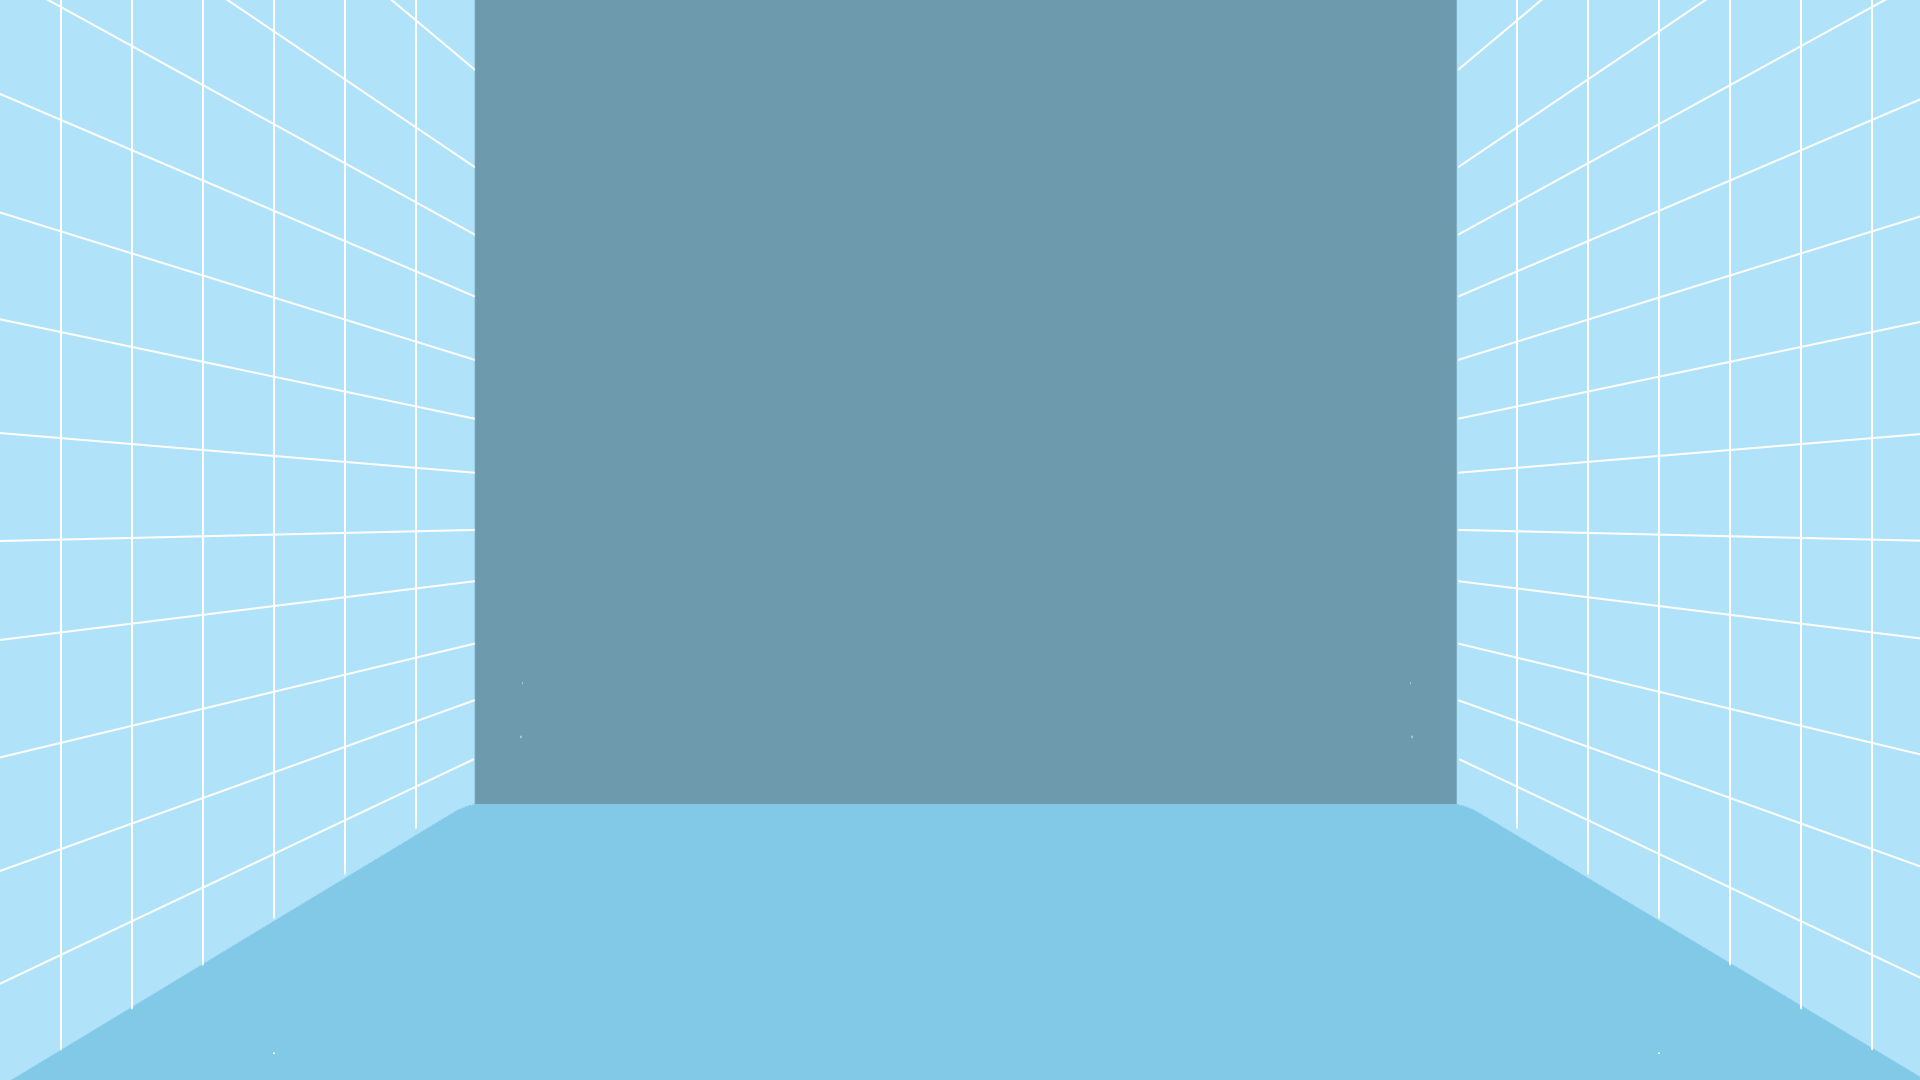
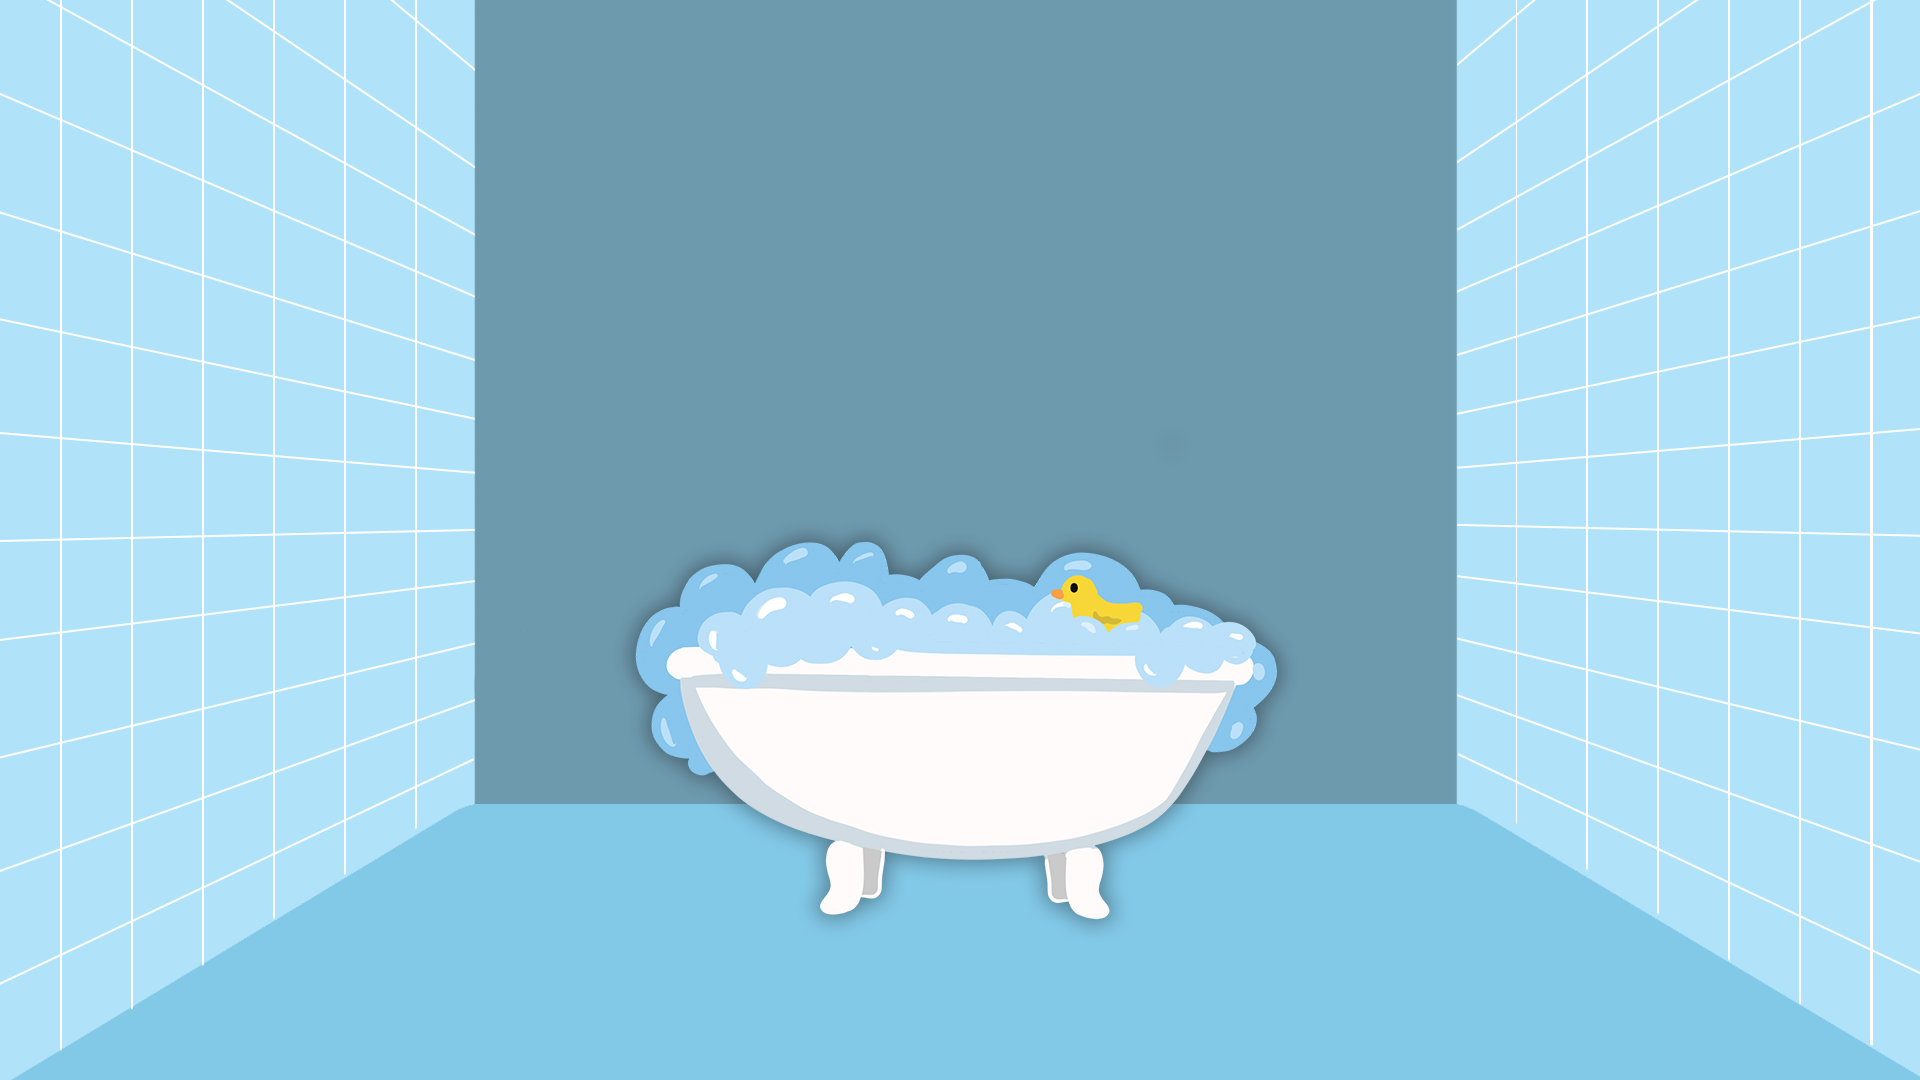
P2: Tamagotchi goes in the bathtub on keypressed

diff --git a/Projects/Project 02/Project 02/js/script.js b/Projects/Project 02/Project 02/js/script.js
@@ -86,7 +86,7 @@ let feedButton = {
 let showerButton = {
   x: 1280 / 2,
   y: 720 / 2 - 150,
-  size: 300,
+  size: 200,
 }
 
 let feedInstructions = `Feed the tamagotchi by saying Eat some and then the name of the food. Hint The tamagotchi loves the colour pink`;
@@ -263,7 +263,8 @@ function feed(food) {
     if (pinkFood.includes(food)) { //if right increase the score and energy
       foodRightAnswer++;
       tamagotchiEnergy += 10;
-    } else {
+    }
+    else {
       foodWrongAnswer++; //if wrong increase wrong score and decrease energy
       tamagotchiEnergy -= 10;
     }
@@ -423,6 +424,7 @@ function mousePressed() {
 
   let d2 = dist(mouseX, mouseY, showerButton.x, showerButton.y);
   if(state === `bathroom`){
+    tamagotchiEgg.getInShower();
     responsiveVoice.speak(showerInstructions, "UK English Female");
   }
 }

diff --git a/Projects/Project 02/Project 02/js/Tamagotchi.js b/Projects/Project 02/Project 02/js/Tamagotchi.js
@@ -15,6 +15,8 @@ class Tamagotchi {
     this.dirt = [];
     this.newDirtTimer = 0;
     this.newDirtDelay = 100;
+    this.showerX= 650;
+    this.showerY=360;
 
 
   }
@@ -42,6 +44,11 @@ class Tamagotchi {
 
   pet(){
       this.y = this.y + 10;
+  }
+
+  getInShower(){
+    this.x = this.showerX;
+    this.y = this.showerY;
   }
 
   //reset position to the middle of the room
